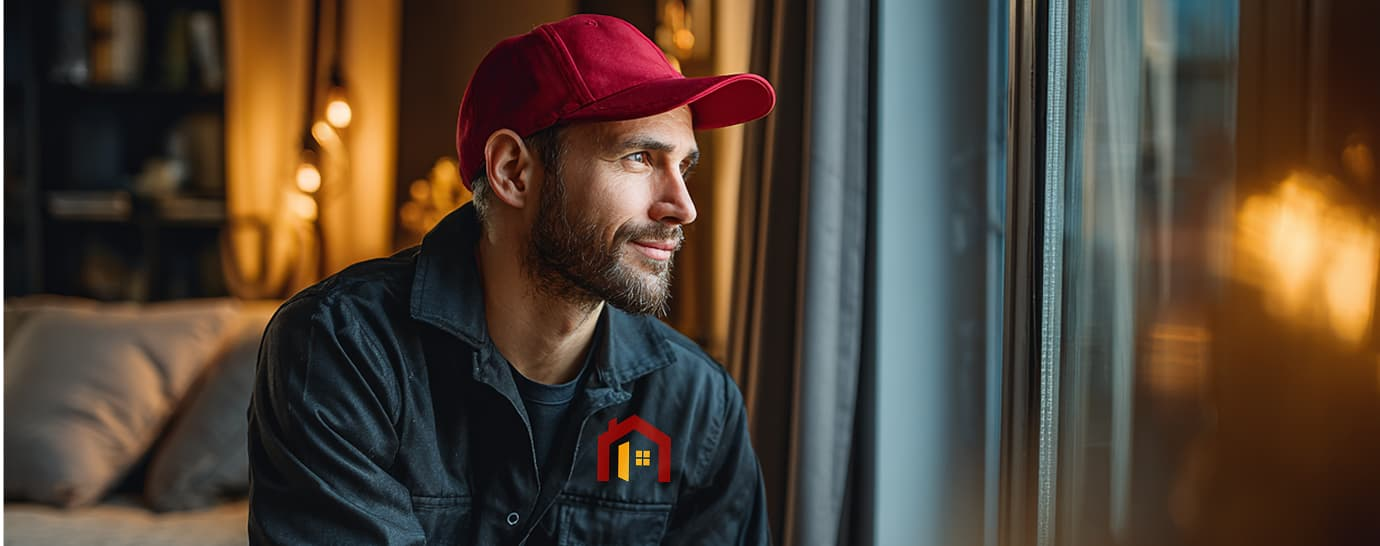
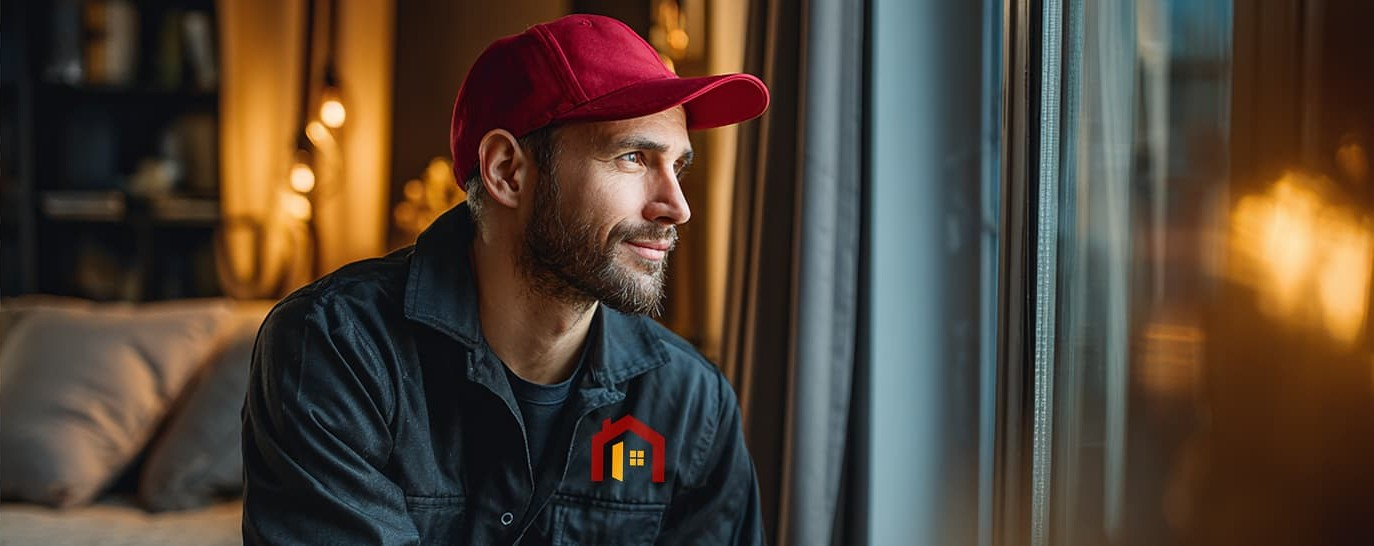
Fix.
- Пофіксив багу з bg container для hero section.
- Перезалив фото bg фото для hero section
- Перезалив фото для секції about-us
- Змінив висоту контейнера для карток в секції job-steps

diff --git a/src/css/layout/hero.css b/src/css/layout/hero.css
@@ -234,7 +234,7 @@
 
 @media screen and (min-width: 1440px) {
   .hero-gradient {
-    width: 792px;
+    width: 790px;
     height: 708px;
 
     border-radius: 33px;
@@ -316,7 +316,7 @@
 
   .hero-background {
     height: 778px;
-    width: 662px;
+    width: 570px;
     border-radius: 24px;
     background-repeat: no-repeat;
     background-size: cover;

diff --git a/src/css/layout/job-steps.css b/src/css/layout/job-steps.css
@@ -155,7 +155,7 @@
 
   .job-section-list-item-wrapper {
     width: 280px;
-    height: 467px;
+    height: 502px;
     padding: 16px 24px 16px 24px;
   }
 
